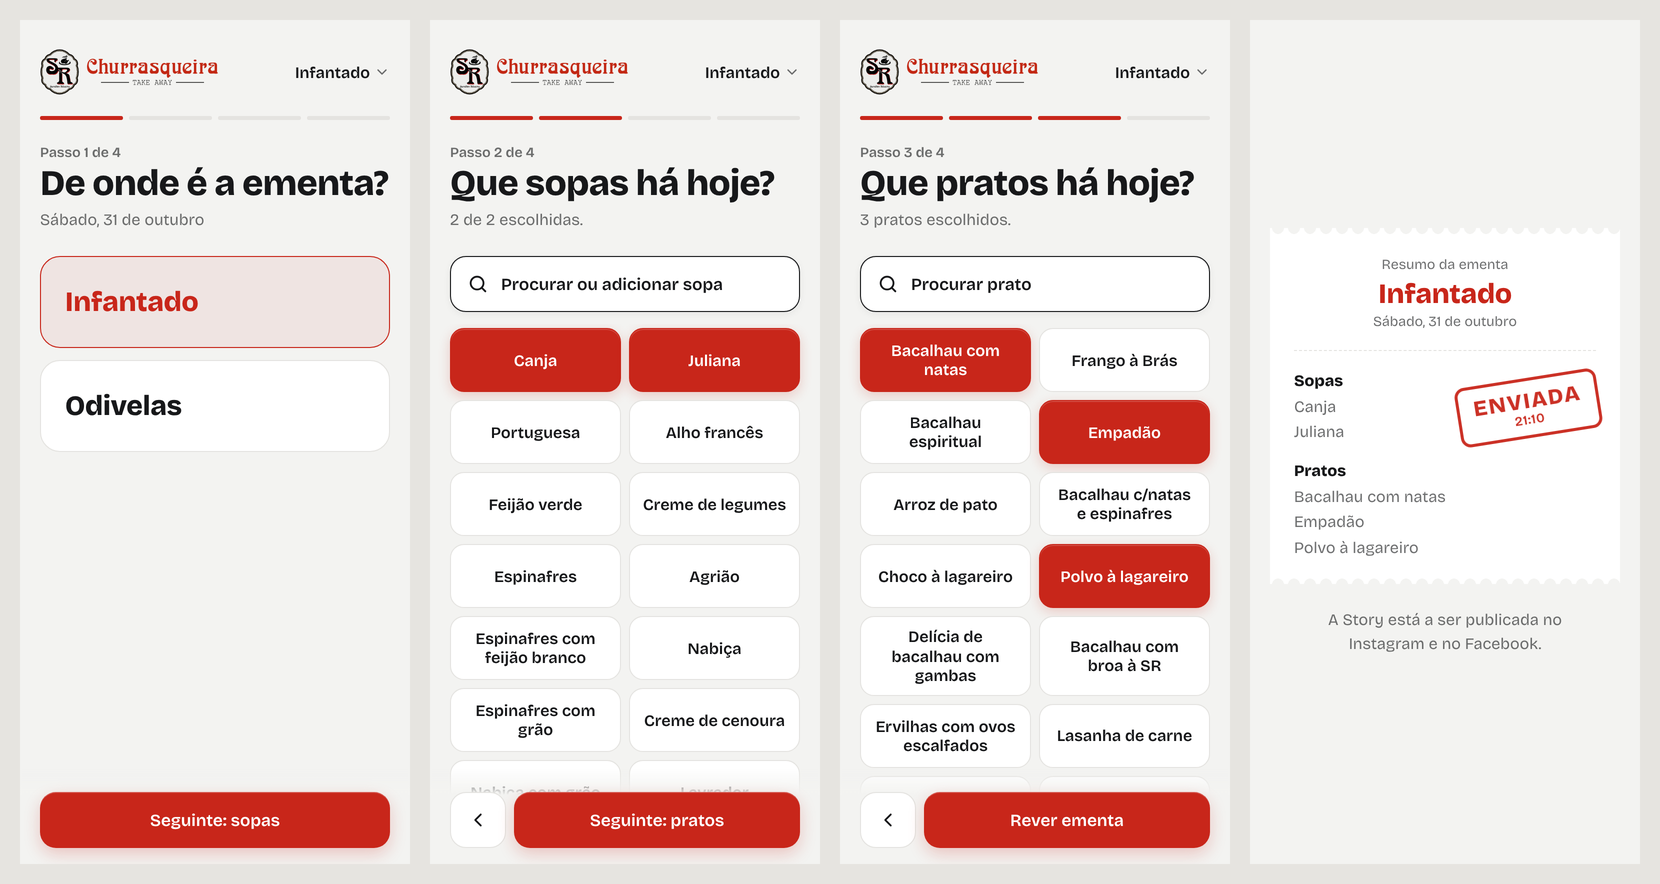
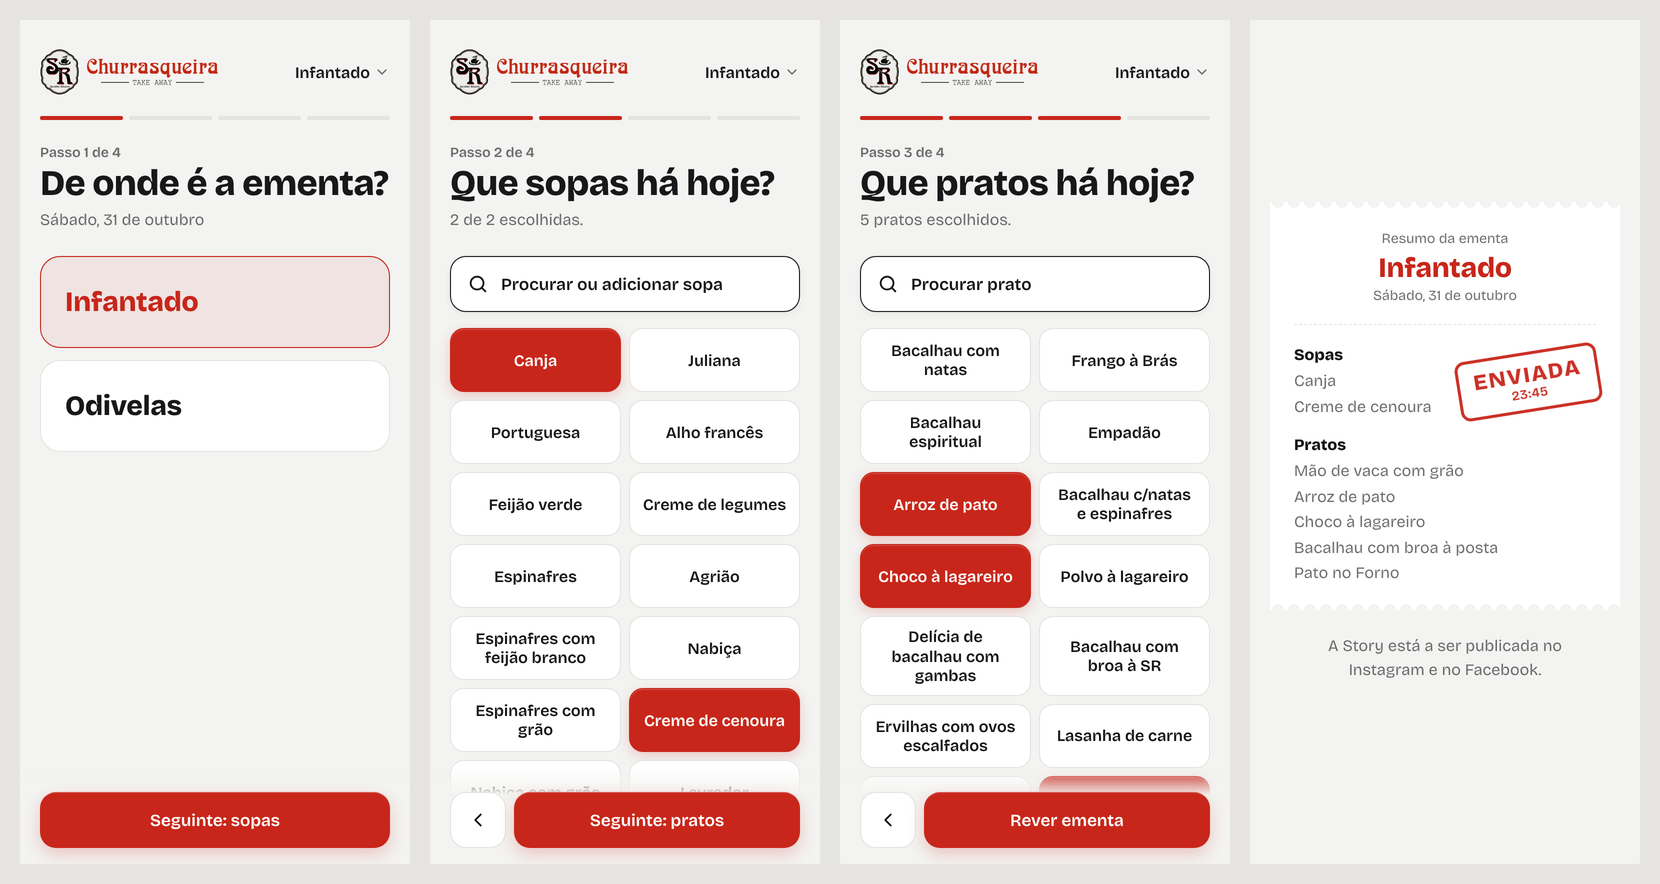
README: show a real menu end to end, from the app to the published Story
The demo and screenshots now use a real day's menu for Infantado (including a
dish added through search), next to the Story that was published for it.

Claude-Session: https://claude.ai/code/session_01PJxCoWCXfxXNC5mH3qhBLz

diff --git a/README.md b/README.md
@@ -40,7 +40,13 @@ The goal: **the people who know the menu tap a few options, and a brand-consiste
 5. **A Telegram message confirms it** with the location, the time and the platforms. If a stage fails, the pipeline quietly retries it. If it still fails, one message says what broke and includes the menu text and the image, so the Story can be posted by hand in seconds.
 6. **At 11:00 on opening days, a watchdog checks** that every location has published. If one hasn't, it sends a one-line reminder.
 
-<p align="center"><img src="assets/app-demo.gif" alt="Publishing a menu in the staff app (test data)" width="300"></p>
+**From the counter to Instagram.** Staff pick a real day's menu for Infantado; a dish that is not on the buttons ("Pato no Forno") is added through search. A minute later, this is the Story on Instagram and Facebook:
+
+| 1 · Staff pick the menu (demo against the test server) | 2 · What gets published |
+|:---:|:---:|
+| <img src="assets/app-demo.gif" alt="Picking the menu in the staff app" width="280"> | <img src="assets/04-story-example.jpg" alt="The published Story for Infantado" width="280"> |
+
+The last two lines of the Story ("Grelhados no Carvão", "Frango no Churrasco") are fixed in the template, so staff never have to pick them.
 
 ![Staff app: location, soups, dishes, stamped receipt](assets/03-staff-app.png)
 
